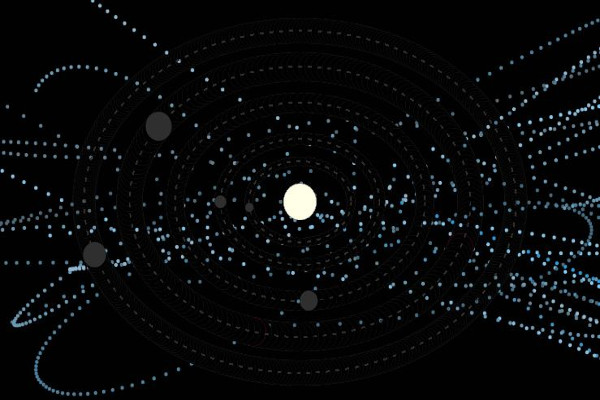
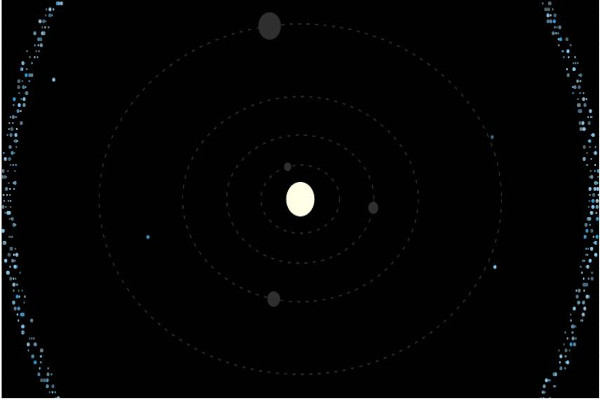
Ateroid belt cricle

diff --git a/public/scripts/drawart03.js b/public/scripts/drawart03.js
@@ -329,6 +329,7 @@ function drawToCanvas () {
   movePlanets();
   drawGravityFields(false);
 
+  drawAsteroidBeltEllipse();
   drawAsteroids();
   calculateAsteroidVelocity();
   moveAsteroids();
@@ -461,10 +462,69 @@ function moveAsteroids () {
 }
 
 function addAsteroid () {
-  //console.log("Add asteroid ");
-  asteroids.push( new asteroid.init(artCanvas.width-20, 
+
+  //Chose randomly a side (left or right), where asteroid is comning from
+  let origin = artCanvas.width-20;
+  if (Math.floor(Math.random()*2)==0) {
+    origin = 20;
+  }
+  //console.log("Add asteroid "+origin);
+
+  asteroids.push( new asteroid.init(origin, 
     Math.floor(Math.random()*artCanvas.height), 
     Math.floor(Math.random()*6)-3,
     Math.floor(Math.random()*4)-2,
     params.asteroidSize));
+}
+
+function drawAsteroidBelt () {
+  for (let y=0; y<artCanvas.height; y=y+7) {
+    for (let j=0; j <1; j++) {
+      let x = Math.floor(Math.random()*20);
+
+      ctx.beginPath();
+      ctx.arc(x, y, Math.floor(Math.random()*3)+1, 0, Math.PI*2);
+      ctx.fillStyle = asteroidColors[Math.floor(Math.random() * asteroidColors.length)];
+      ctx.fill();
+      ctx.closePath();  
+
+      //console.log("x "+x+" width "+artCanvas.width+" pos "+(artCanvas.width-x)+" y "+y);
+      ctx.beginPath();
+      ctx.arc((artCanvas.width-x), y, Math.floor(Math.random()*3)+1, 0, Math.PI*2);
+      ctx.fillStyle = asteroidColors[Math.floor(Math.random() * asteroidColors.length)];
+      ctx.fill();
+      ctx.closePath();
+    }
+
+  }
+
+}
+
+function drawAsteroidBeltEllipse () {
+
+  console.log ("width "+(artCanvas.width)+" height "+(artCanvas.height));
+  for (let i=0; i<artCanvas.height; i=i+7) {
+    for (let j=0; j <3; j++) {
+
+      let y = artCanvas.height/2 - i;
+      let x = Math.sqrt(Math.pow(artCanvas.width/2, 2) - Math.pow(y, 2));
+
+      if (i < 5) {
+        //console.log (" x "+((artCanvas.width/2+x)+" y "+(artCanvas.height/2+y)));
+      }
+
+      ctx.beginPath();
+      ctx.arc(artCanvas.width/2+x-Math.floor(Math.random()*20), artCanvas.height/2+y, Math.floor(Math.random()*2)+1, 0, Math.PI*2);
+      ctx.fillStyle = asteroidColors[Math.floor(Math.random() * asteroidColors.length)];
+      ctx.fill();
+      ctx.closePath();  
+
+      ctx.beginPath();
+      ctx.arc(artCanvas.width/2-x+Math.floor(Math.random()*20), artCanvas.height/2+y, Math.floor(Math.random()*2)+1, 0, Math.PI*2);
+      ctx.fillStyle = asteroidColors[Math.floor(Math.random() * asteroidColors.length)];
+      ctx.fill();
+      ctx.closePath();  
+
+    }
+  }
 }
